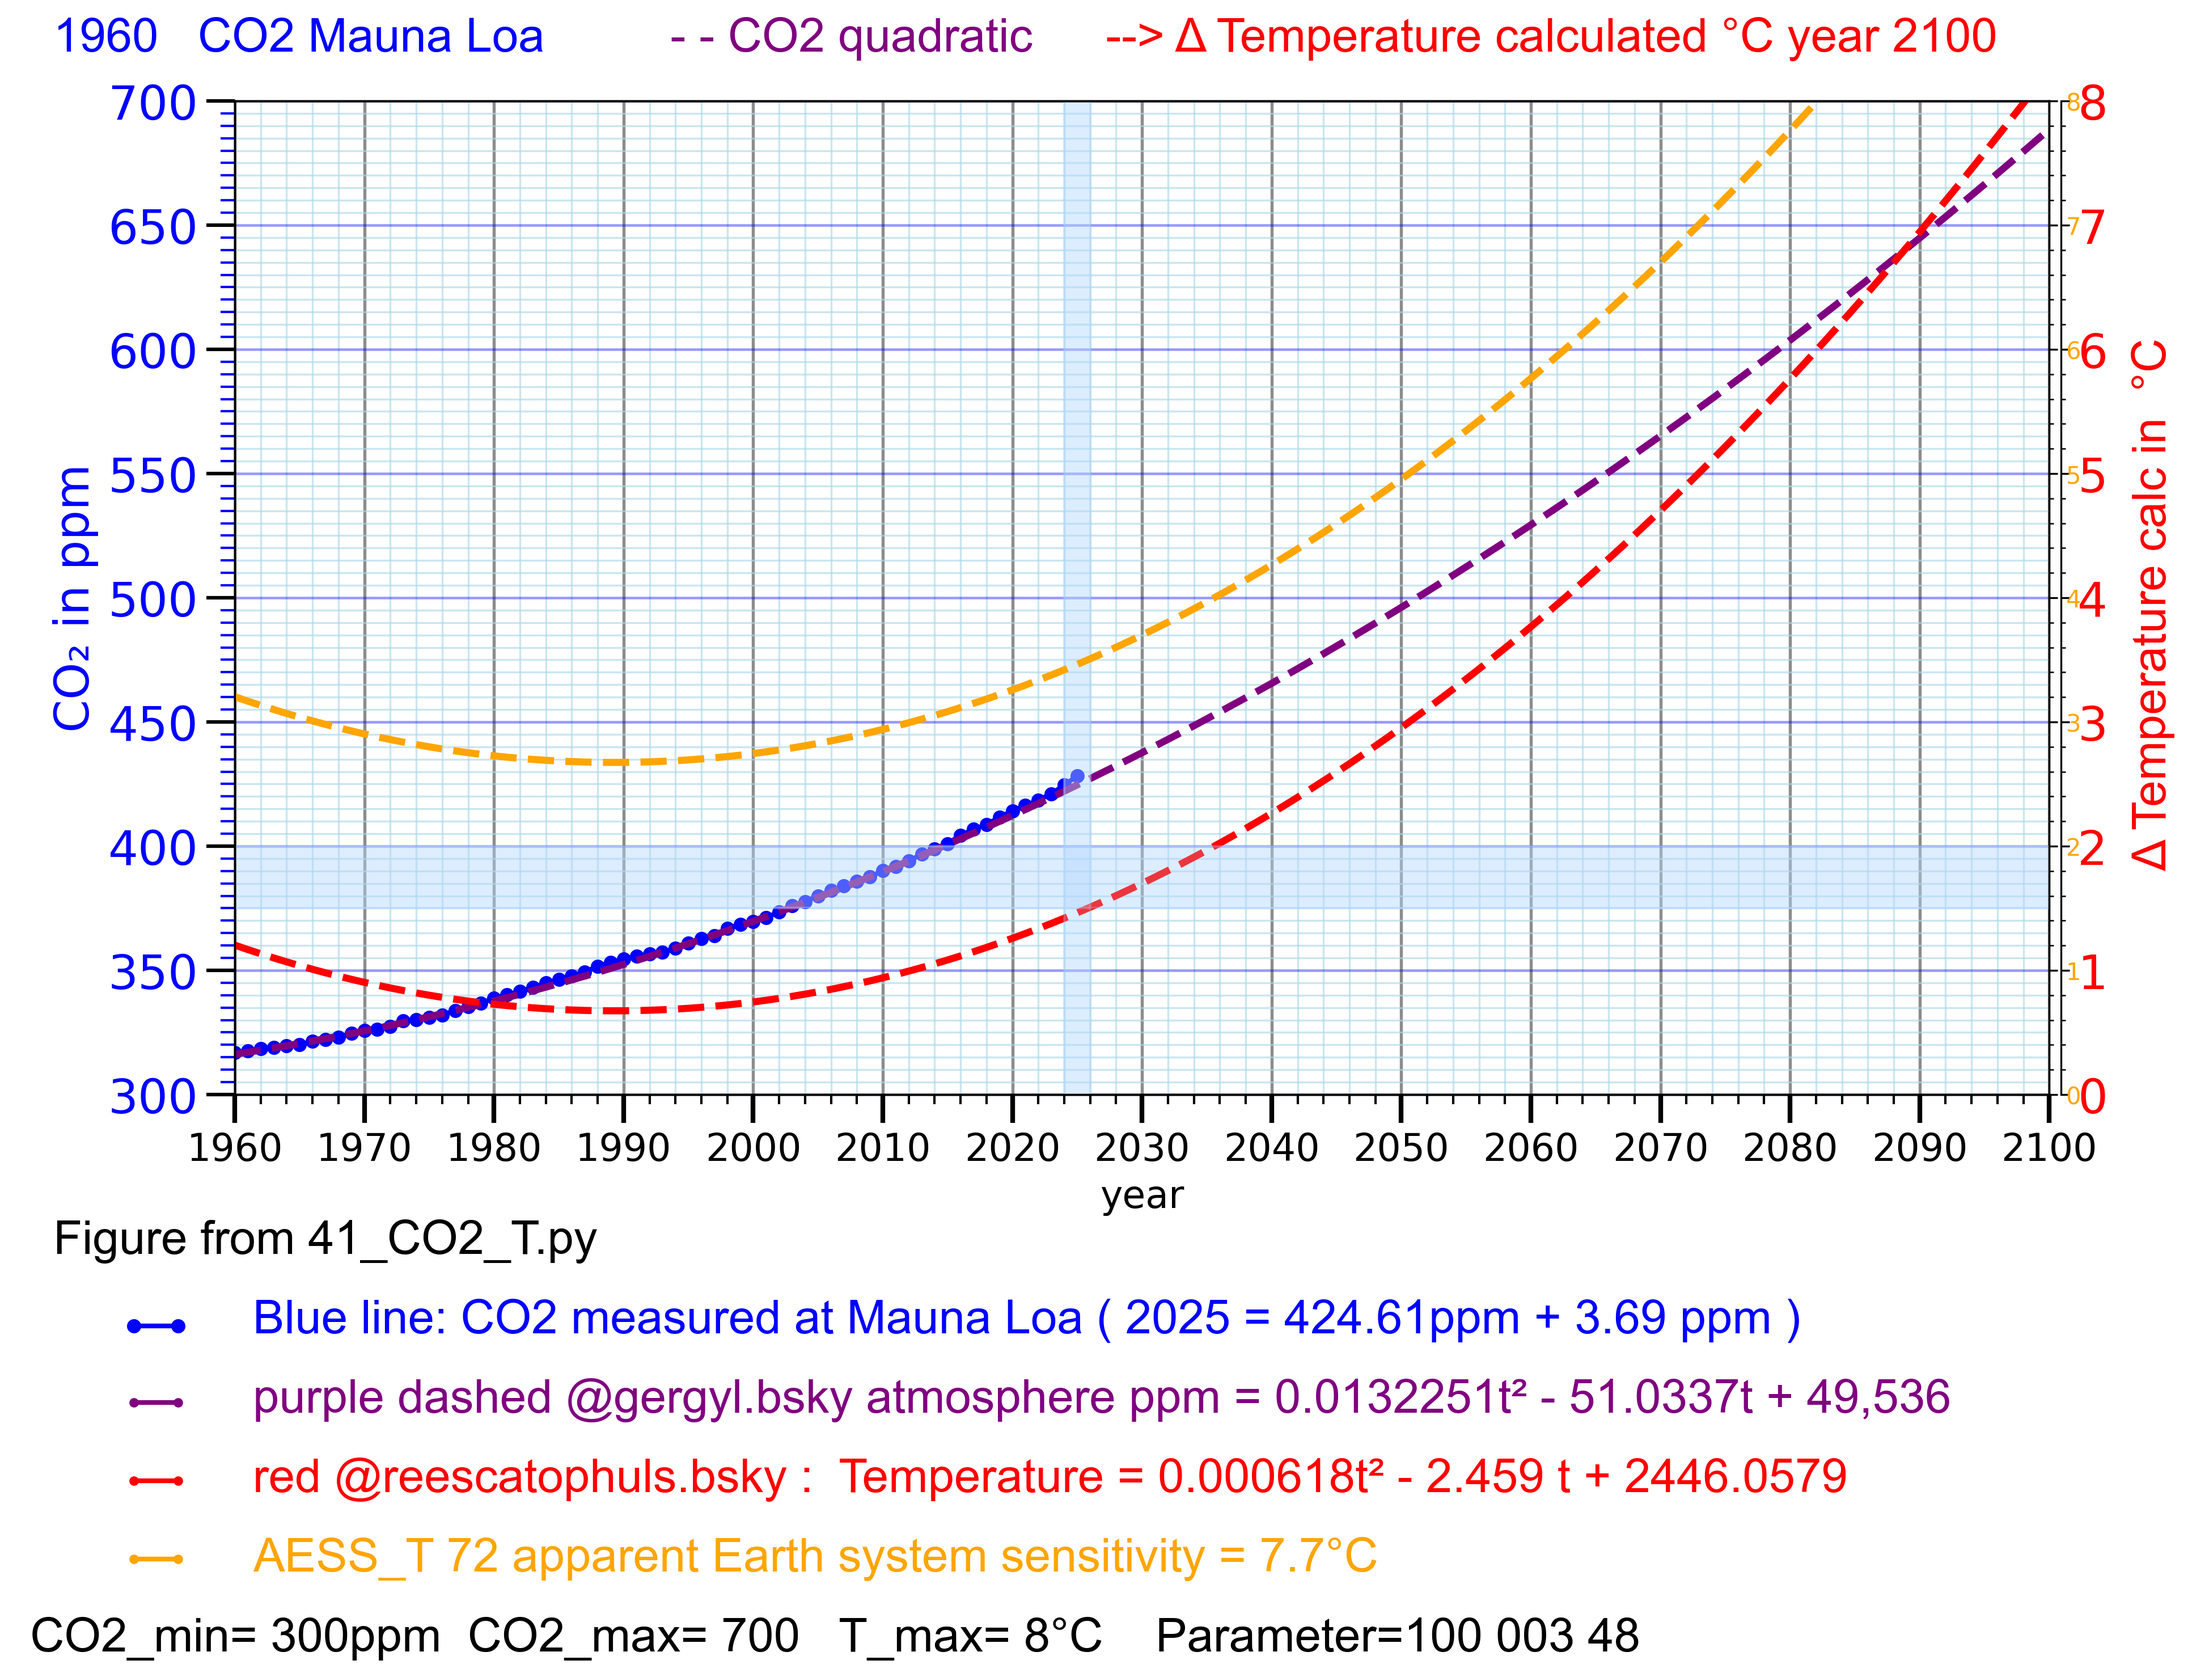
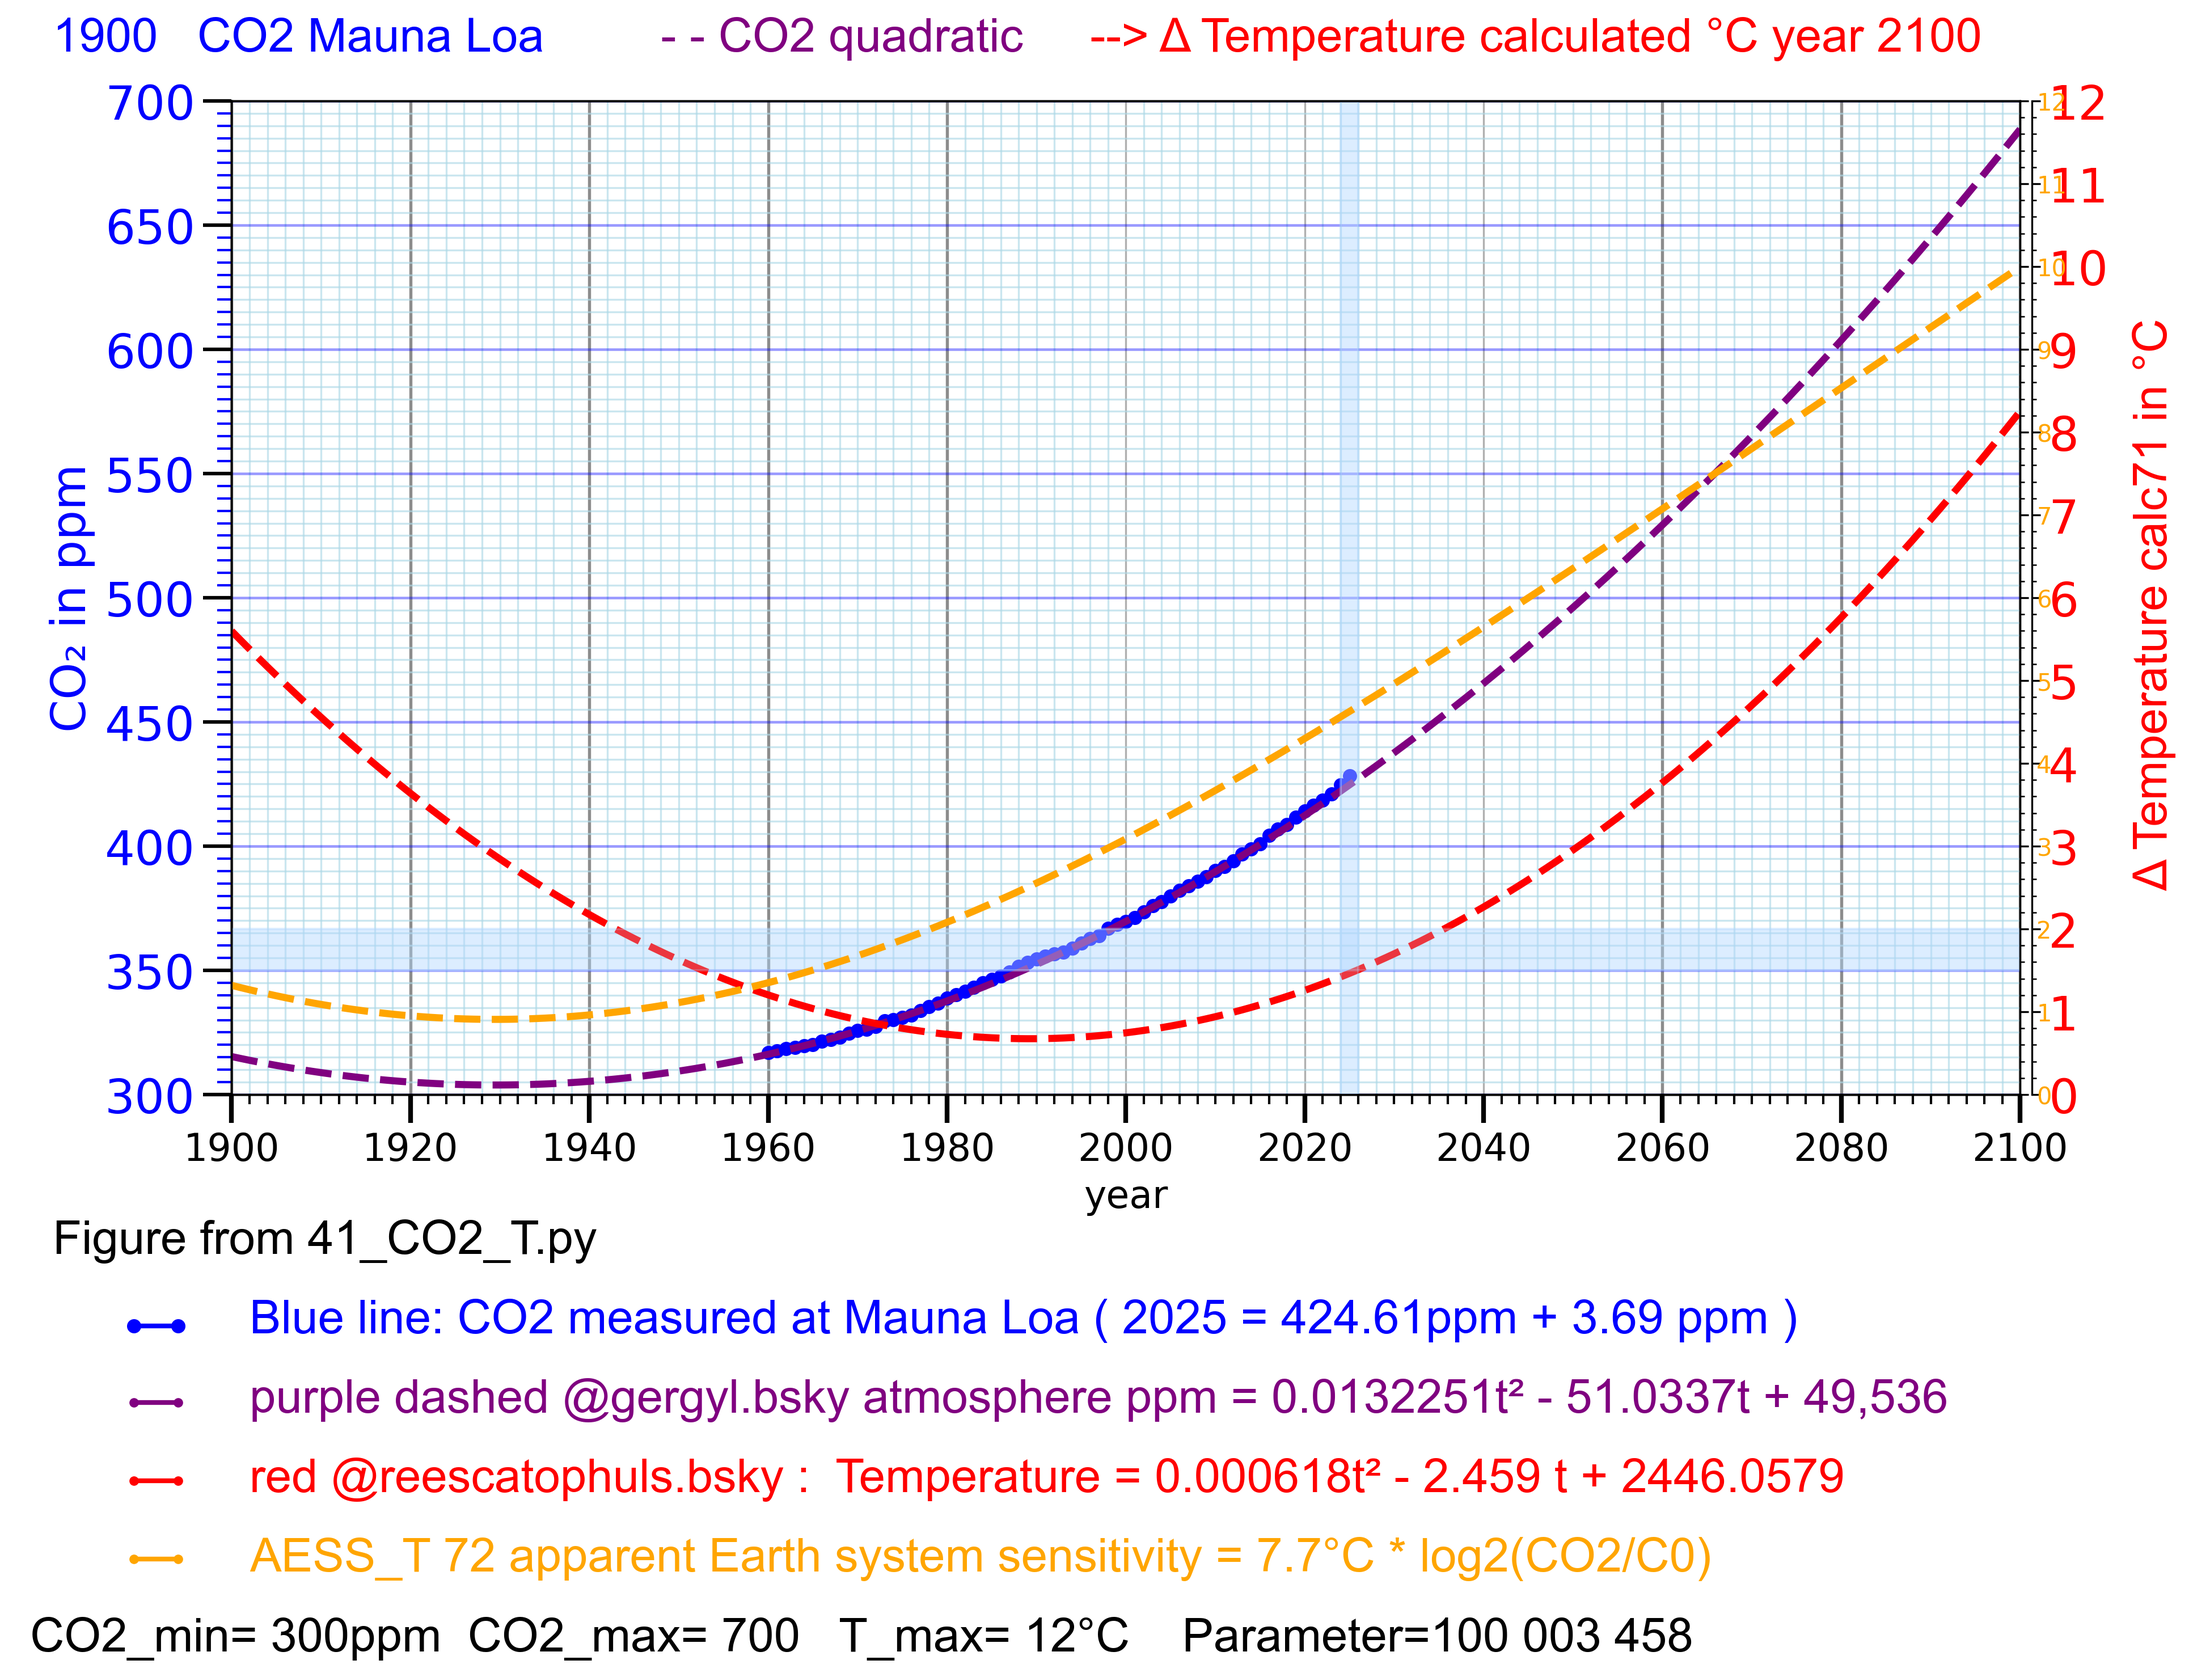
41g11_CO2_T.py

diff --git a/41_CO2_T.py b/41_CO2_T.py
@@ -1,4 +1,4 @@
-# 41g10_CO2_T.py 
+# 41g11_CO2_T.py 
 # Thomas Boettcher
 # part 0 variables
 # part 1 plot CO2 Mauna Loa
@@ -43,10 +43,10 @@ y_max = 700 # min value 440 70
 
 # 0.3.2 scale the right Y axis
 y_Tmin = 0 # min value °C
-y_Tmax = 12 # 4 # max value C
+y_Tmax = 8 # 4 # max value C
 
 x_anf = 1900 # 1960 geht, 2000 geht
-x_end = 2100 # 2026 geht
+x_end = 2060 # 2026 geht
 
 ydiff = (y_max - y_min) / 10 # for y axis scale print
 xdiff = (x_end - x_anf) / 10 # for legend print
